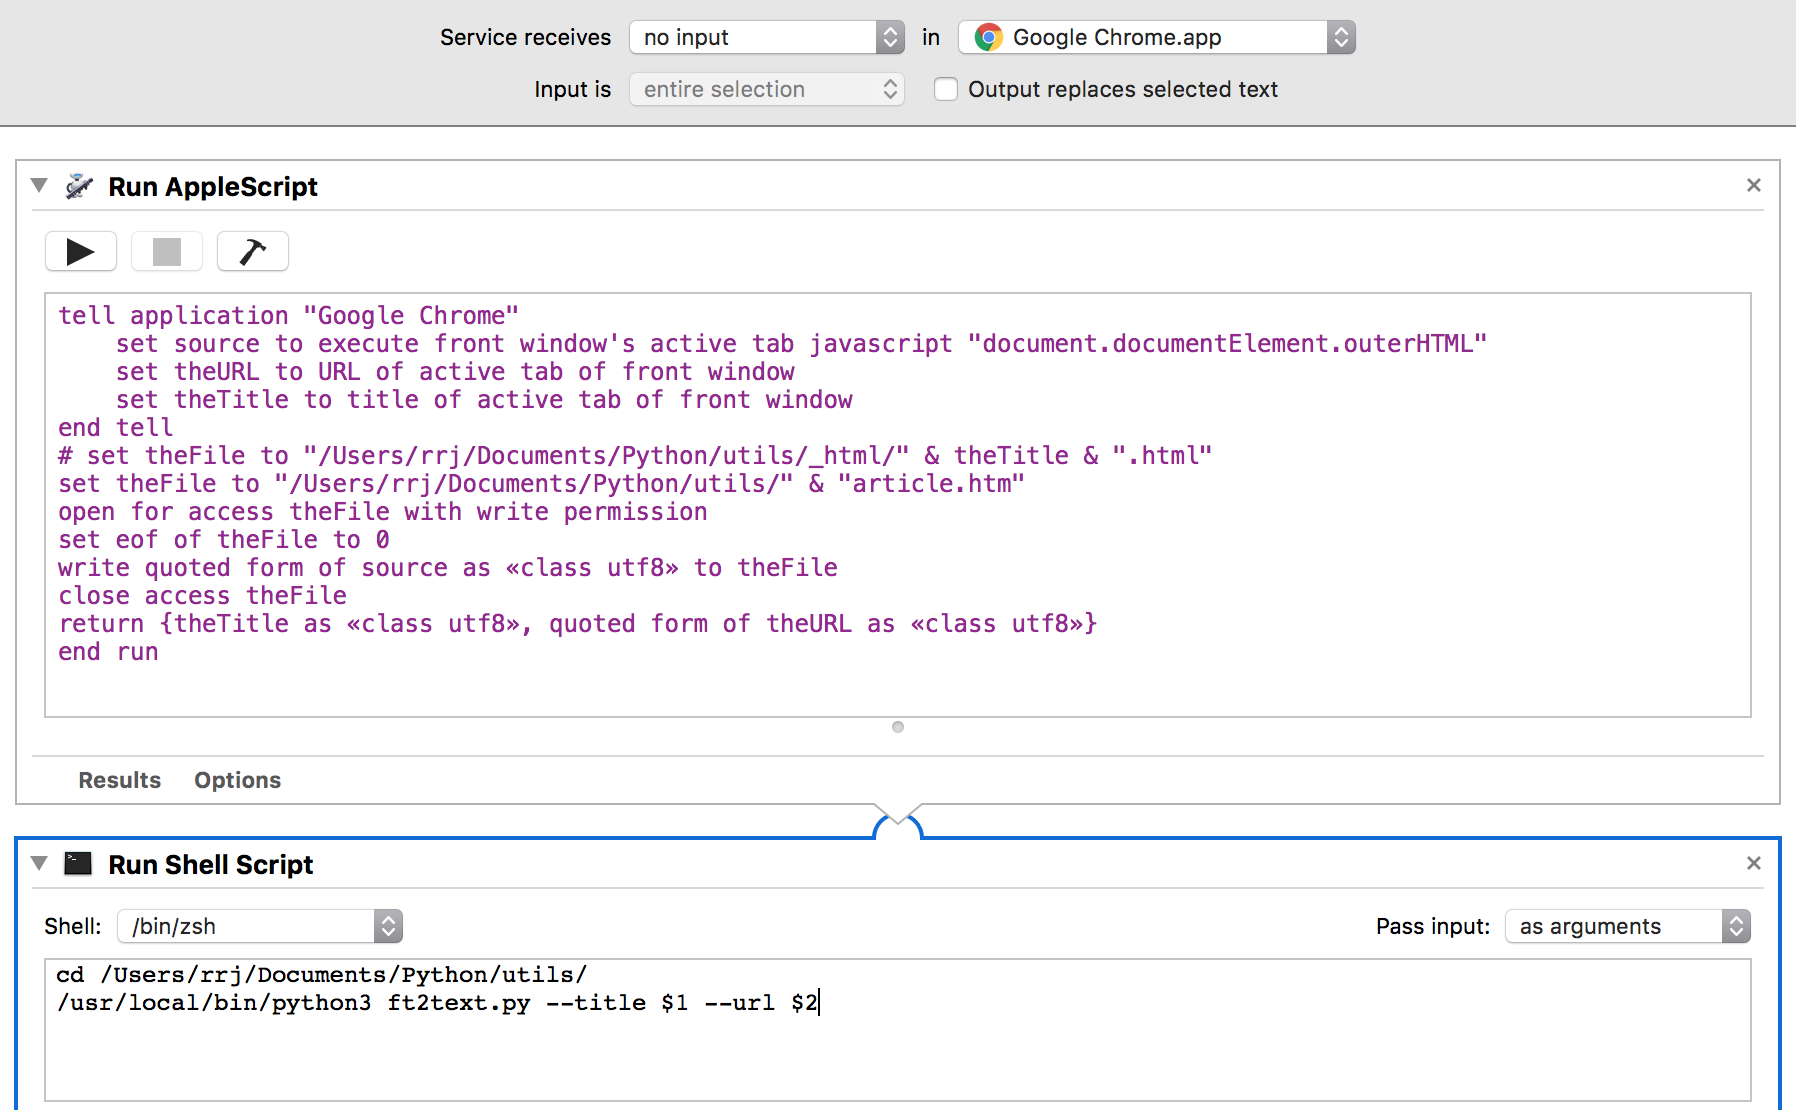
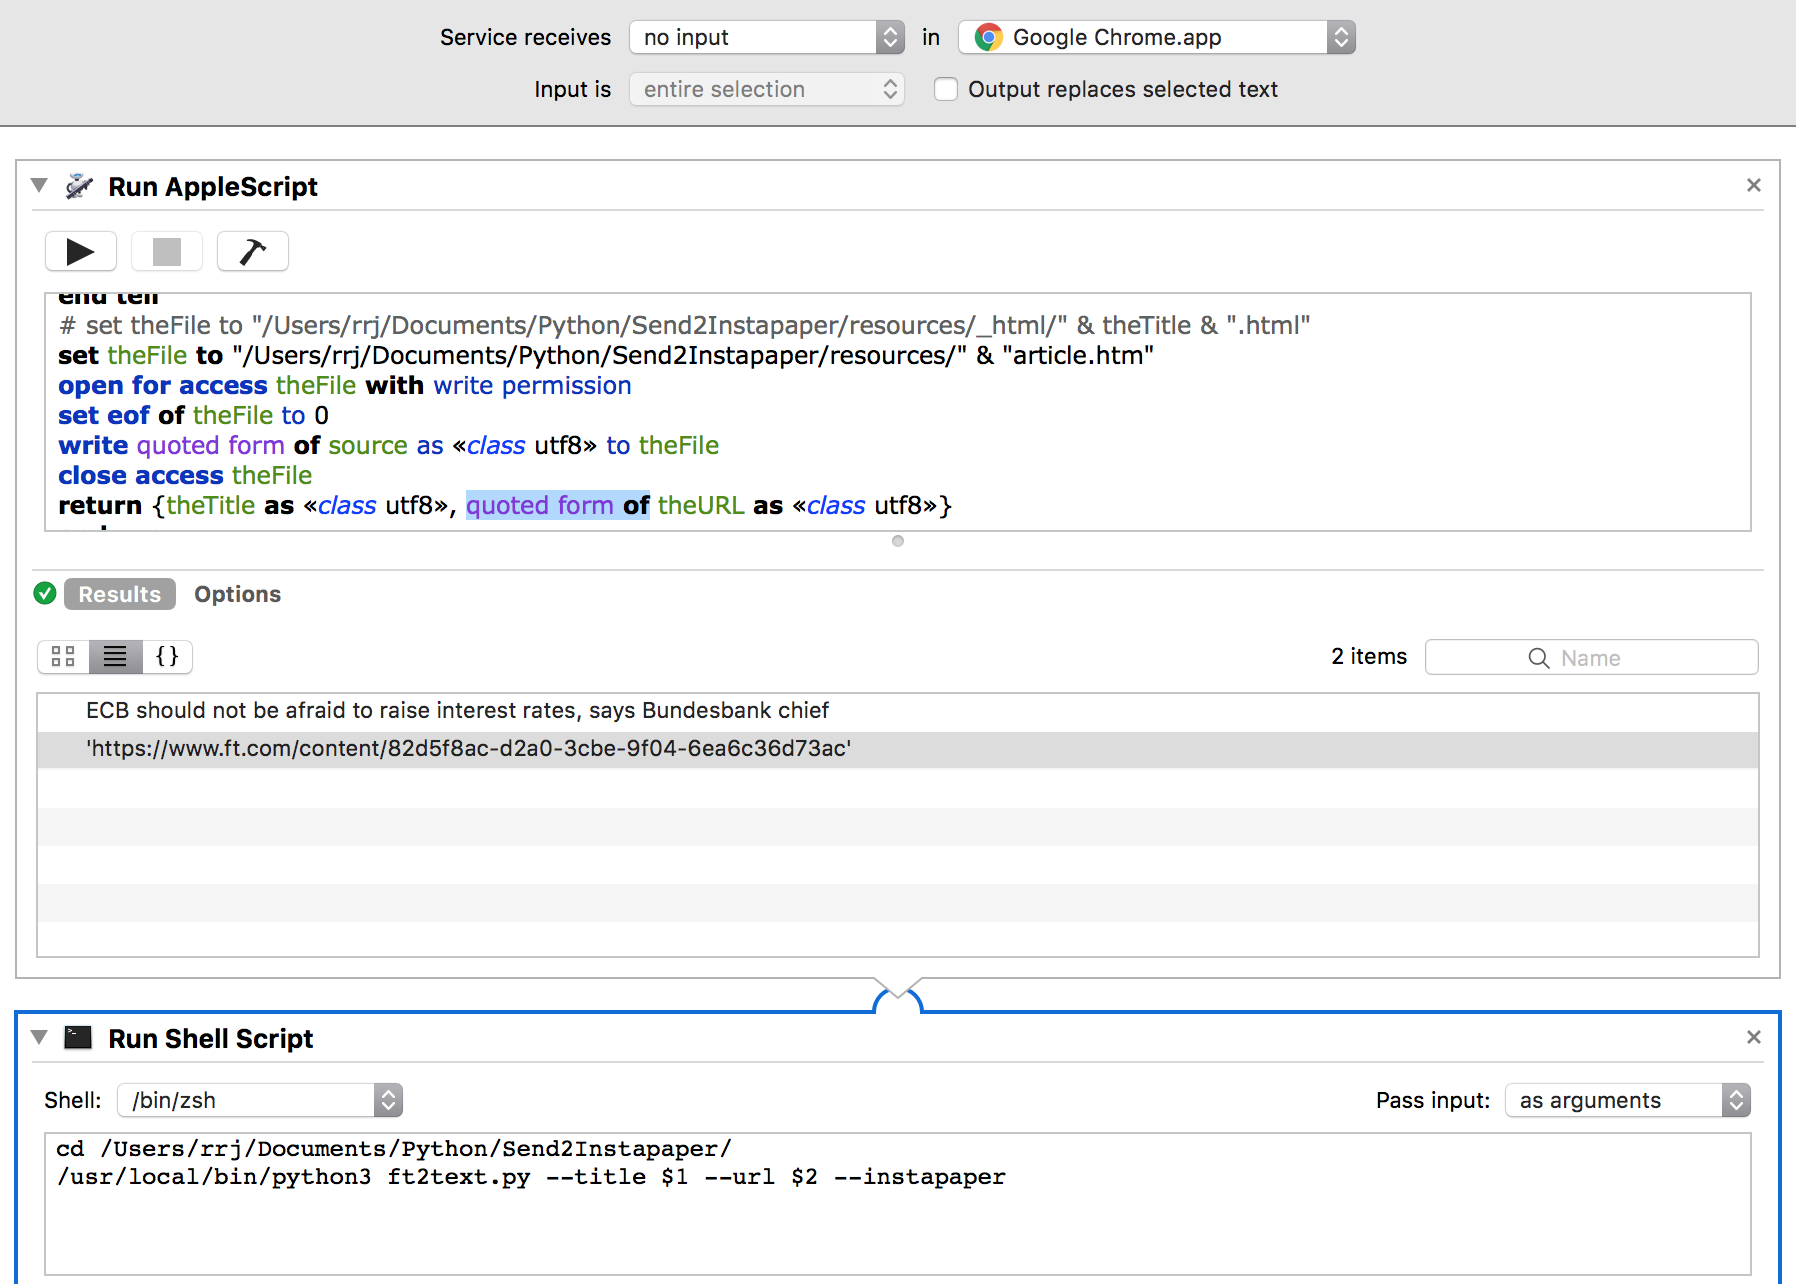
New release. More scripts with similar functionality.

diff --git a/get4instapaper.py b/get4instapaper.py
@@ -1,0 +1,196 @@
+#!/usr/bin/env python3
+# -*- coding: utf-8 -*-
+# Grab HTML of article in Chrome [to avoid paywalls],
+# save to file necessary parts, create markdown, send to Instapaper
+# To create epub use: pandoc -s -c _html/ft.css  _html/*.html -o "FT
+# $(date +"%d-%m-%Y").epub"
+
+import sys
+import os
+import subprocess
+import argparse
+import logging
+import re
+import instapaper
+
+API_key = "INSTAPAPER_API_KEY"
+
+
+def slugify(str):
+    slug = re.sub(r"[^\w]+", " ", str)
+    slug = "-".join(slug.lower().strip().split())
+    return slug
+
+
+def get_keychain_pass(account=None, server=None):
+    params = {
+        'security': '/usr/bin/security',
+        'command': 'find-internet-password',
+        'account': account,
+        'server': server
+    }
+
+    command = "%(security)s %(command)s -g -a %(account)s -s %(server)s -w" \
+        % params
+    logging.info(command)
+    try:
+        password = subprocess.getoutput(command)
+        return password
+    except Exception as e:
+        logging.exception('Could not get password from keychain')
+        raise
+
+
+def get_instapaper(folder="unread", limit=10, text=True,
+        instapaper_user='user@example.com') -> None:
+
+    logging.info('instapaper_user = ' + instapaper_user)
+    try:
+        API_secret = get_keychain_pass(API_key, 'instapaper.com')
+        I = instapaper.Instapaper(API_key, API_secret)
+        instapaper_pass = get_keychain_pass(instapaper_user, 'instapaper.com')
+        I.login(instapaper_user, instapaper_pass)
+
+        marks = I.bookmarks(folder, limit)
+        for m in marks:
+            logging.info('Article: ' + m.title)
+            print(m.title)
+            if text:
+                process_article(m.title, None, m.text)
+            else:
+                process_article(m.title, m.html, None)
+
+    except Exception as e:
+        logging.exception('Error retrieving Instapaper articles')
+        raise
+
+
+def get_folders(instapaper_user='user@example.com') -> None:
+
+    logging.info('instapaper_user = ' + instapaper_user)
+    try:
+        API_secret = get_keychain_pass(API_key, 'instapaper.com')
+        I = instapaper.Instapaper(API_key, API_secret)
+        instapaper_pass = get_keychain_pass(instapaper_user, 'instapaper.com')
+        I.login(instapaper_user, instapaper_pass)
+
+        folders = I.folders()
+        for f in folders:
+            # print(f)
+            # for k, v in f.items():
+            #     print(k, v)
+            print(f['folder_id'],  '\t', f['title'])
+
+    except Exception as e:
+        logging.exception('Error retrieving Instapaper folders')
+        raise
+
+
+def get_folder_id(folder_name, instapaper_user='user@example.com') -> None:
+
+    logging.info('instapaper_user = ' + instapaper_user)
+    try:
+        API_secret = get_keychain_pass(API_key, 'instapaper.com')
+        I = instapaper.Instapaper(API_key, API_secret)
+        instapaper_pass = get_keychain_pass(instapaper_user, 'instapaper.com')
+        I.login(instapaper_user, instapaper_pass)
+        folders = I.folders()
+        for f in folders:
+            if folder_name in f['title']:
+                print(f['title'])
+                print(f['folder_id'])
+                return f['folder_id']
+
+    except Exception as e:
+        logging.exception('Error retrieving Instapaper folders')
+        raise
+
+
+def process_article(article_title, article_html, article_text=None) -> None:
+    html_filename = "resources/_tmp/" + slugify(article_title) + u".html"
+
+    try:
+        with open(html_filename, 'w+') as a:
+            a.seek(0)
+            a.write('<!DOCTYPE html>\n<html>\n<head>\n')
+            a.write(
+                '<meta http-equiv=“Content-Type” content=“text/html; charset=utf-8”>\n')
+            a.write('<link rel="stylesheet" href="iBooks.css">\n')
+            if article_title is not None:
+                a.write('<title>' + article_title + '</title>\n')
+            a.write('</head>\n<body>\n')
+            if article_title is not None:
+                # Don't use h1 for title (cause of pandoc/epub). Lame!
+                a.write('<h2>' + article_title + '</h2>\n')
+            if article_html is not None:
+                a.write(str(article_html))
+            if article_text is not None:
+                a.write('\n<div>\n')
+                for l in article_text.split('\n'):
+                    if len(l.strip()) > 0:
+                        a.write('<p>' + l + '</p>\n')
+                a.write('\n</div>\n')
+            a.write('\n</body>\n</html>\n')
+
+        logging.info('Finished processing article')
+
+    except Exception as e:
+        logging.exception("Fatal error in __main__ loop")
+        raise
+    logging.info('Article: ' + article_title + ' parsed')
+
+
+def getArgs(argv=None):
+    parser = argparse.ArgumentParser(description='Download articles from \
+                    Instapaper and create epub file',
+                    formatter_class=argparse.ArgumentDefaultsHelpFormatter)
+    parser.add_argument('-d', '--download', default=False,
+                    action="store_true",
+                    help='Do download articles')
+    parser.add_argument('-l', '--list', default=False,
+                    action="store_true",
+                    help='List folders and ids')
+    parser.add_argument('--html', default=False,
+                    action="store_true",
+                    help='Download as HTML not text (has links, pics and better formatting - way slower and uses more data). Text is just fine in simple case. ')
+    parser.add_argument('-f', '--folder', default=None,
+                    help='Downloads from particular folder')
+    parser.add_argument('-a', '--articles', default=10,
+                    help='Number of articles to download')
+    parser.add_argument('-e', '--epub', default=False,
+                    action="store_true",
+                    help='Create epub')
+    return parser.parse_args(argv)
+
+
+if __name__ == '__main__':
+    FORMAT = '%(asctime)s - %(levelname)s - %(message)s'
+    logging.basicConfig(filename='get4instapaper.log', level=logging.DEBUG,
+                        format=FORMAT, datefmt='%a, %d %b %Y %H:%M:%S',)
+    logging.info('--- get4instapaper.py logging started ---.')
+
+    args = getArgs()
+    download = args.download
+    list_folders = args.list
+    download_text = not args.html
+    folder = args.folder
+    articles = args.articles
+    epub = args.epub
+    if list_folders:
+        folder_id = get_folders()
+    if folder is not None:
+        folder_id = get_folder_id(folder)
+    else:
+        folder_id = "unread"
+    if download:
+        print('-- removing html files')
+        for fname in os.listdir('resources/_tmp/'):
+            if fname.endswith('.html'):
+                print(fname)
+                os.remove('resources/_tmp/' + fname)
+        print('-- html files removed')
+        get_instapaper(folder_id, articles, download_text)
+    if epub:
+        subprocess.call('resources/_tmp/ft.sh'.split())
+
+    logging.info('--- get4instapaper logging finished ---.')

diff --git a/ft2text.py b/ft2text.py
@@ -6,7 +6,7 @@
 
 import sys
 import requests
-# import re
+import re
 import html2text
 import datetime
 from bs4 import BeautifulSoup
@@ -15,6 +15,8 @@ import logging
 import instapaper
 import subprocess
 
+
+API_key = "INSTAPAPER_API_KEY"
 
 def get_keychain_pass(account=None, server=None):
     params = {
@@ -34,14 +36,13 @@ def get_keychain_pass(account=None, server=None):
         raise
 
 
-def send_instapaper(url=None, content=None, title=None, description=None, instapaper_user='xqqnjxltpq@outlook.com') -> None:
+def send_instapaper(url=None, content=None, title=None, description=None, instapaper_user='user@example.com') -> None:
     params = {
         'url': url,
         'content': content,
         'title': title,
         'description': description
     }
-    API_key = "e25b1a3dc611401988da0352d4955a7e"
     try:
         API_secret = get_keychain_pass(API_key, 'instapaper.com')
         I = instapaper.Instapaper(API_key, API_secret)
@@ -76,29 +77,37 @@ def process_article(article_title, article_filename='resources/article.htm') -> 
             html = r.read()
         soup = BeautifulSoup(html, "html.parser")
         # style = soup.find("style", class_="n-layout-head-css")
-        header = soup.find("h1", class_="article-headline")
-        lead = soup.find("div", class_="article__header-secondary")
+        if (title is not None):
+            header = title
+        else:
+            header = soup.find("h1", class_="topper__headline").get_text("\t", strip=True)
+        logging.info('header: ' + header)
+        lead = soup.find("div", class_="topper__standfirst")
+        logging.info('lead.text: ' + lead.text)
         article = soup.find(
-            "div", class_="article__body n-content-body p402_premium")
-
+            "div", class_= re.compile("article__body n-content-body.*"))
+        if article.str is not None:
+            logging.info('Scraped some article content')
         with open(html_filename, 'w') as a:
             a.write('<!DOCTYPE html>\n<html>\n<head>\n')
             a.write(
                 '<meta http-equiv=“Content-Type” content=“text/html; charset=utf-8”>\n')
             a.write('<link rel="stylesheet" href="ft.css">\n')
-            a.write('<title>' + header.get_text("|", strip=True) + '</title>\n')
+            a.write('<title>' + header + '</title>\n')
             # if style is not None:
             # a.write(str('<style class="n-layout-head-css">' + style.text + '</style>\n'))
             a.write('</head>\n<body>\n')
             if header is not None:
                 # Don't use h1 for title (cause of pandoc/epub). Lame!
-                h.feed('<h1>' + header.text + '</h1>')
+                h.feed('<h1>' + header + '</h1>')
                 a.write('<h1 class="article-headline">' +
-                        header.get_text(" | ", strip=True) + '</h1>\n')
+                        header + '</h1>\n')
+
             if lead is not None:
                 h.feed('<h2>' + lead.text + '</h2>')
                 a.write('<h2 class="article__header-secondary">' +
                         lead.get_text(" | ", strip=True) + '</h2>\n')
+
             if article is not None:
                 a.write(str(article))
                 h.feed(str(article))
@@ -108,7 +117,7 @@ def process_article(article_title, article_filename='resources/article.htm') -> 
             #     h.feed('<p>'+ chunk +'</p>')
         text = h.close()
         yaml = "---\n"
-        yaml += "title: " + header.get_text("\t", strip=True) + "\n"
+        yaml += "title: " + header + "\n"
         yaml += "publisher:  Financial Times\n"
         yaml += "lang: en-GB\n"
         # yaml += "stylesheet: _css/iBooks.css\n"

diff --git a/cr2instapaper.py b/cr2instapaper.py
@@ -1,10 +1,13 @@
 #!/usr/bin/env python3
 # -*- coding: utf-8 -*-
-# Grab HTML of article in Chrome, send to Instapaper as content aboiding trouble with paywalls
+# Grab HTML of article in Chrome, send to Instapaper as content avoiding trouble with paywalls
 import argparse
 import logging
 import instapaper
 import subprocess
+
+
+API_key = "INSTAPAPER_API_KEY"
 
 
 def get_keychain_pass(account=None, server=None):
@@ -16,7 +19,7 @@ def get_keychain_pass(account=None, server=None):
     }
 
     command = "%(security)s %(command)s -g -a %(account)s -s %(server)s -w" % params
-    logging.info(command)
+    # logging.info(command)
     try :
         password = subprocess.getoutput(command)
         return password
@@ -35,7 +38,7 @@ def send_notification(message=None):
     }
 
     command = "%(notifier)s -message \"%(message)s\" -title \"%(title)s\" -open \"%(url)s\" -appIcon \"%(icon)s\" -contentImage \"%(image)s\"" % params
-    logging.info(command)
+    # logging.info(command)
     try:
         return subprocess.getoutput(command)
     except Exception as e:
@@ -56,7 +59,7 @@ def getArgs(argv=None):
     parser.add_argument('-c', '--content',
                         help='Content as html/body/..')
     parser.add_argument('-f', '--file',
-                        help='Content in file..')
+                        help='Content passed in HTML file [in /tmp folder]..')
     return parser.parse_args(argv)
 
 if __name__ == '__main__':
@@ -73,7 +76,6 @@ if __name__ == '__main__':
     logging.info(url)
     logging.info(title)
     try:
-        API_key = "e25b1a3dc611401988da0352d4955a7e"
         API_secret = get_keychain_pass(API_key, 'instapaper.com')
         I = instapaper.Instapaper(API_key, API_secret)
         instapaper_pass = get_keychain_pass(instapaper_user, 'instapaper.com')
@@ -91,7 +93,7 @@ if __name__ == '__main__':
         b.save()
         m = 'Article: ' +  title + ' saved to Instapaper.'
         send_notification(m)
-
+        logging.info(m)
     except Exception as e:
         logging.exception("Fatal error in __main__ loop")
 
